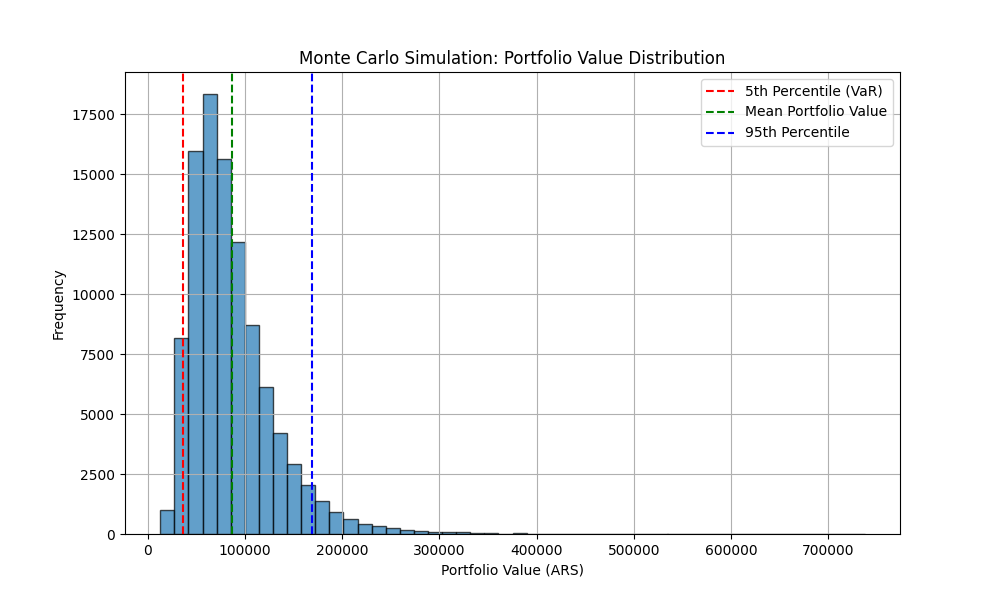
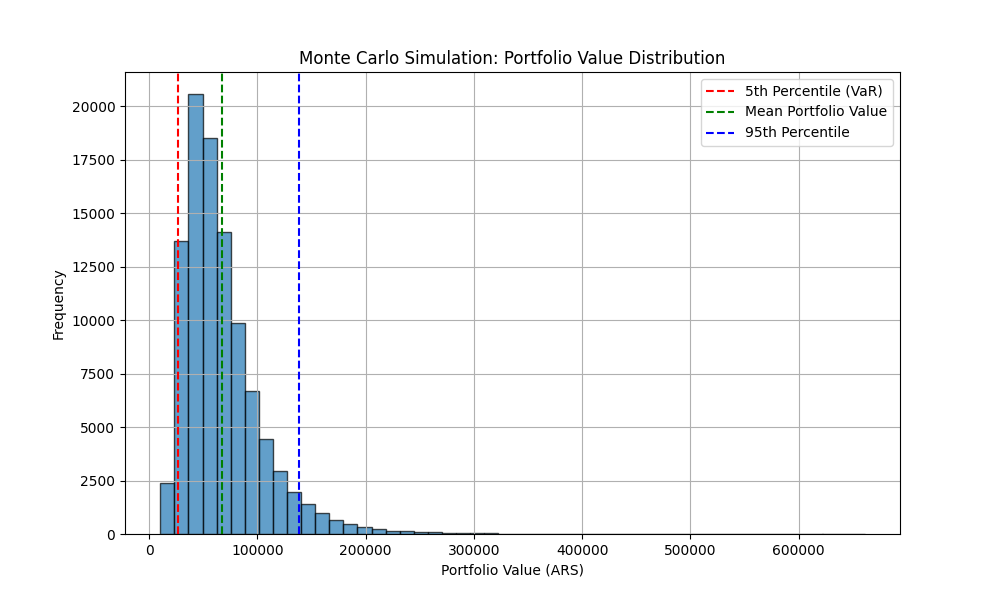
changes in portfolio managment

diff --git a/finance/VaR/5m.py b/finance/VaR/5m.py
@@ -1,0 +1,130 @@
+import yfinance as yf
+import pandas as pd
+import numpy as np
+from datetime import datetime, timedelta
+
+# Portfolio details
+portfolio = {
+    'MELI.BA': {'shares': 2, 'purchase_price': 18300},
+    'TSLA.BA': {'shares': 1, 'purchase_price': 26600},
+    'AMZN.BA': {'shares': 2, 'purchase_price': 1706}
+}
+
+# Define the rolling download function for intraday data
+def download_intraday_data(ticker, start, end, interval='5m'):
+    """Download intraday data for a ticker between two dates using rolling chunks."""
+    data = pd.DataFrame()
+    current_start = start
+    while current_start < end:
+        current_end = min(current_start + timedelta(days=60), end)
+        try:
+            # Define valid market hours (ART)
+            market_open_art = 10  # 10:00 ART
+            market_close_art = 17  # 17:00 ART
+            chunk = yf.download(ticker, 
+                                start=current_start.strftime('%Y-%m-%d'),
+                                end=current_end.strftime('%Y-%m-%d'),
+                                interval=interval)['Adj Close']
+            
+            # Ensure the index is in UTC
+            chunk.index = chunk.index.tz_localize('UTC') if chunk.index.tz is None else chunk.index
+            
+            # Convert UTC to ART (UTC-3)
+            chunk.index = chunk.index.tz_convert('Etc/GMT+3')
+            
+            # Filter for valid market hours (10:00–17:00 ART)
+            chunk = chunk.between_time(f"{market_open_art}:00", f"{market_close_art}:00")
+            
+            
+            data = pd.concat([data, chunk])
+        except Exception as e:
+            print(f"Error downloading data for {ticker}: {e}")
+        current_start = current_end
+    return data
+
+# Define the date range
+#start_date = datetime(2023, 1, 1) 
+end_date = datetime(2024, 11, 15)
+
+
+# Define the date range (last 60 days to ensure 5-minute data is available)
+end_date = datetime.utcnow()
+start_date = datetime.today() - timedelta(days=59)
+
+print(start_date)
+
+# Download intraday data for each stock
+intraday_data = {}
+for ticker in portfolio.keys():
+    print(f"Downloading intraday data for {ticker}...")
+    intraday_data[ticker] = download_intraday_data(ticker, start=start_date, end=end_date)
+
+# Ensure all tickers' data are properly formatted
+valid_tickers = {
+    ticker: data for ticker, data in intraday_data.items() 
+    if isinstance(data, pd.Series) or isinstance(data, pd.DataFrame) and not data.empty
+}
+
+# If no valid data is found
+if not valid_tickers:
+    raise ValueError("No valid intraday data found for any ticker in the portfolio.")
+
+# Combine data into a single DataFrame
+intraday_prices = pd.concat(valid_tickers.values(), axis=1)
+
+# Assign proper column names (tickers) to the DataFrame
+intraday_prices.columns = valid_tickers.keys()
+
+# Drop rows with missing data to ensure all tickers have aligned timestamps
+intraday_prices = intraday_prices.dropna()
+
+# Debugging step: Print the first rows of the combined DataFrame
+print(intraday_prices.head())
+
+
+print(intraday_prices.tail())
+
+# Calculate hourly returns
+intraday_returns = np.log(intraday_prices / intraday_prices.shift(1)).dropna()
+
+# Proceed with portfolio calculations
+total_value = sum([portfolio[ticker]['shares'] * portfolio[ticker]['purchase_price'] for ticker in portfolio])
+weights = np.array([
+    portfolio[ticker]['shares'] * portfolio[ticker]['purchase_price'] / total_value 
+    for ticker in valid_tickers.keys()
+])
+
+# Covariance matrix of hourly returns
+cov_matrix_intraday = intraday_returns.cov()
+
+# Portfolio mean return and volatility (hourly)
+portfolio_mean_intraday = np.dot(weights, intraday_returns.mean())
+portfolio_volatility_intraday = np.sqrt(np.dot(weights.T, np.dot(cov_matrix_intraday, weights)))
+
+# Calculate VaR at 95% confidence level (1-hour horizon)
+z_score = -1.65  # Z-score for 95% confidence (negative for loss)
+portfolio_var_intraday = portfolio_mean_intraday - z_score * portfolio_volatility_intraday
+
+# Portfolio Value at Risk in monetary terms (1-hour horizon)
+VaR_value_intraday = portfolio_var_intraday * total_value
+
+print(f"Intraday Portfolio Value at Risk (1-hour, 95% confidence): ${VaR_value_intraday:,.2f}")
+
+# Monte Carlo simulation for CVaR
+simulations = 10000  # Number of simulations
+mu = portfolio_mean_intraday  # Hourly mean return
+sigma = portfolio_volatility_intraday  # Hourly volatility
+
+# Simulate portfolio returns over 1 hour
+simulated_returns = np.random.normal(mu, sigma, simulations)
+
+# Simulate portfolio values after 1 hour
+portfolio_simulated_values = total_value * (1 + simulated_returns)
+
+# Calculate 5th percentile VaR threshold
+VaR_threshold_intraday = np.percentile(portfolio_simulated_values, 5)
+
+# Calculate CVaR as the mean of losses beyond the VaR threshold
+CVaR_intraday = portfolio_simulated_values[portfolio_simulated_values <= VaR_threshold_intraday].mean()
+
+print(f"Intraday Portfolio Conditional Value at Risk (1-hour, 95% confidence): ${CVaR_intraday:,.2f}")

diff --git a/finance/VaR/1H.py b/finance/VaR/1H.py
@@ -1,0 +1,123 @@
+import yfinance as yf
+import pandas as pd
+import numpy as np
+from datetime import datetime, timedelta
+
+# Portfolio details
+portfolio = {
+    'MELI.BA': {'shares': 2, 'purchase_price': 18300},
+    'TSLA.BA': {'shares': 1, 'purchase_price': 26600},
+    'AMZN.BA': {'shares': 2, 'purchase_price': 1706}
+}
+
+# Define the rolling download function for intraday data
+def download_intraday_data(ticker, start, end, interval='1h'):
+    """Download intraday data for a ticker between two dates using rolling chunks."""
+    data = pd.DataFrame()
+    current_start = start
+    while current_start < end:
+        current_end = min(current_start + timedelta(days=60), end)
+        try:
+            # Define valid market hours (ART)
+            market_open_art = 10  # 10:00 ART
+            market_close_art = 17  # 17:00 ART
+            
+            chunk = yf.download(ticker, 
+                                start=current_start.strftime('%Y-%m-%d'),
+                                end=current_end.strftime('%Y-%m-%d'),
+                                interval=interval)['Adj Close']
+            
+            # Ensure the index is in UTC
+            chunk.index = chunk.index.tz_localize('UTC') if chunk.index.tz is None else chunk.index
+            
+            # Convert UTC to ART (UTC-3)
+            chunk.index = chunk.index.tz_convert('Etc/GMT+3')
+            
+            # Filter for valid market hours (10:00–17:00 ART)
+            chunk = chunk.between_time(f"{market_open_art}:00", f"{market_close_art}:00")
+            
+            
+            data = pd.concat([data, chunk])
+        except Exception as e:
+            print(f"Error downloading data for {ticker}: {e}")
+        current_start = current_end
+    return data
+
+# Define the date range
+start_date = datetime(2024, 1, 1)
+end_date = datetime(2024, 11, 15)
+
+# Download intraday data for each stock
+intraday_data = {}
+for ticker in portfolio.keys():
+    print(f"Downloading intraday data for {ticker}...")
+    intraday_data[ticker] = download_intraday_data(ticker, start=start_date, end=end_date)
+
+# Ensure all tickers' data are properly formatted
+valid_tickers = {
+    ticker: data for ticker, data in intraday_data.items() 
+    if isinstance(data, pd.Series) or isinstance(data, pd.DataFrame) and not data.empty
+}
+
+# If no valid data is found
+if not valid_tickers:
+    raise ValueError("No valid intraday data found for any ticker in the portfolio.")
+
+# Combine data into a single DataFrame
+intraday_prices = pd.concat(valid_tickers.values(), axis=1)
+
+# Assign proper column names (tickers) to the DataFrame
+intraday_prices.columns = valid_tickers.keys()
+
+# Drop rows with missing data to ensure all tickers have aligned timestamps
+intraday_prices = intraday_prices.dropna()
+
+# Debugging step: Print the first rows of the combined DataFrame
+print(intraday_prices.head())
+
+print(intraday_prices.tail())
+
+# Calculate hourly returns
+intraday_returns = np.log(intraday_prices / intraday_prices.shift(1)).dropna()
+
+# Proceed with portfolio calculations
+total_value = sum([portfolio[ticker]['shares'] * portfolio[ticker]['purchase_price'] for ticker in portfolio])
+weights = np.array([
+    portfolio[ticker]['shares'] * portfolio[ticker]['purchase_price'] / total_value 
+    for ticker in valid_tickers.keys()
+])
+
+# Covariance matrix of hourly returns
+cov_matrix_intraday = intraday_returns.cov()
+
+# Portfolio mean return and volatility (hourly)
+portfolio_mean_intraday = np.dot(weights, intraday_returns.mean())
+portfolio_volatility_intraday = np.sqrt(np.dot(weights.T, np.dot(cov_matrix_intraday, weights)))
+
+# Calculate VaR at 95% confidence level (1-hour horizon)
+z_score = -1.65  # Z-score for 95% confidence (negative for loss)
+portfolio_var_intraday = portfolio_mean_intraday - z_score * portfolio_volatility_intraday
+
+# Portfolio Value at Risk in monetary terms (1-hour horizon)
+VaR_value_intraday = portfolio_var_intraday * total_value
+
+print(f"Intraday Portfolio Value at Risk (1-hour, 95% confidence): ${VaR_value_intraday:,.2f}")
+
+# Monte Carlo simulation for CVaR
+simulations = 10000  # Number of simulations
+mu = portfolio_mean_intraday  # Hourly mean return
+sigma = portfolio_volatility_intraday  # Hourly volatility
+
+# Simulate portfolio returns over 1 hour
+simulated_returns = np.random.normal(mu, sigma, simulations)
+
+# Simulate portfolio values after 1 hour
+portfolio_simulated_values = total_value * (1 + simulated_returns)
+
+# Calculate 5th percentile VaR threshold
+VaR_threshold_intraday = np.percentile(portfolio_simulated_values, 5)
+
+# Calculate CVaR as the mean of losses beyond the VaR threshold
+CVaR_intraday = portfolio_simulated_values[portfolio_simulated_values <= VaR_threshold_intraday].mean()
+
+print(f"Intraday Portfolio Conditional Value at Risk (1-hour, 95% confidence): ${CVaR_intraday:,.2f}")

diff --git a/finance/PortfolioManagment.py b/finance/PortfolioManagment.py
@@ -3,6 +3,8 @@ import yfinance as yf
 import matplotlib.pyplot as plt
 import os
 import pandas as pd
+from datetime import datetime, timedelta
+
 #import matplotlib
 #matplotlib.use('Agg')  # Use non-interactive backend
 
@@ -31,10 +33,14 @@ for ticker, details in portfolio.items():
 
     # Fetch historical data
     csv_filename = f'{path}\\csv\\{ticker}_data.csv'
-    data = yf.download(ticker, start='2024-01-01', end='2024-11-15')
-    if data.empty:
-        print(f"Skipping {ticker} due to missing data.")
+    try:
+        data = yf.download(ticker, start='2024-01-01', end=datetime.Today())
+        if data.empty:
+            raise ValueError(f"No data available for {ticker}")
+    except Exception as e:
+        print(f"Error downloading data for {ticker}: {e}")
         continue
+
     
     data.to_csv(csv_filename)
 
@@ -42,8 +48,9 @@ for ticker, details in portfolio.items():
     data['Daily Return'] = data['Adj Close'].pct_change()
 
     # Calculate mean and volatility from historical data in ARS
-    mu = data['Daily Return'].mean() * 252  # Annualized mean return in ARS
-    sigma = data['Daily Return'].std() * np.sqrt(252)  # Annualized volatility in ARS
+    data['Log Return'] = np.log(data['Adj Close'] / data['Adj Close'].shift(1))
+    mu = data['Log Return'].mean() * 252  # Annualized log return
+    sigma = data['Log Return'].std() * np.sqrt(252)  # Annualized volatility
 
     data.columns = data.columns.droplevel(1)  # Drop the 'Price' level in the multi-level columns
 
